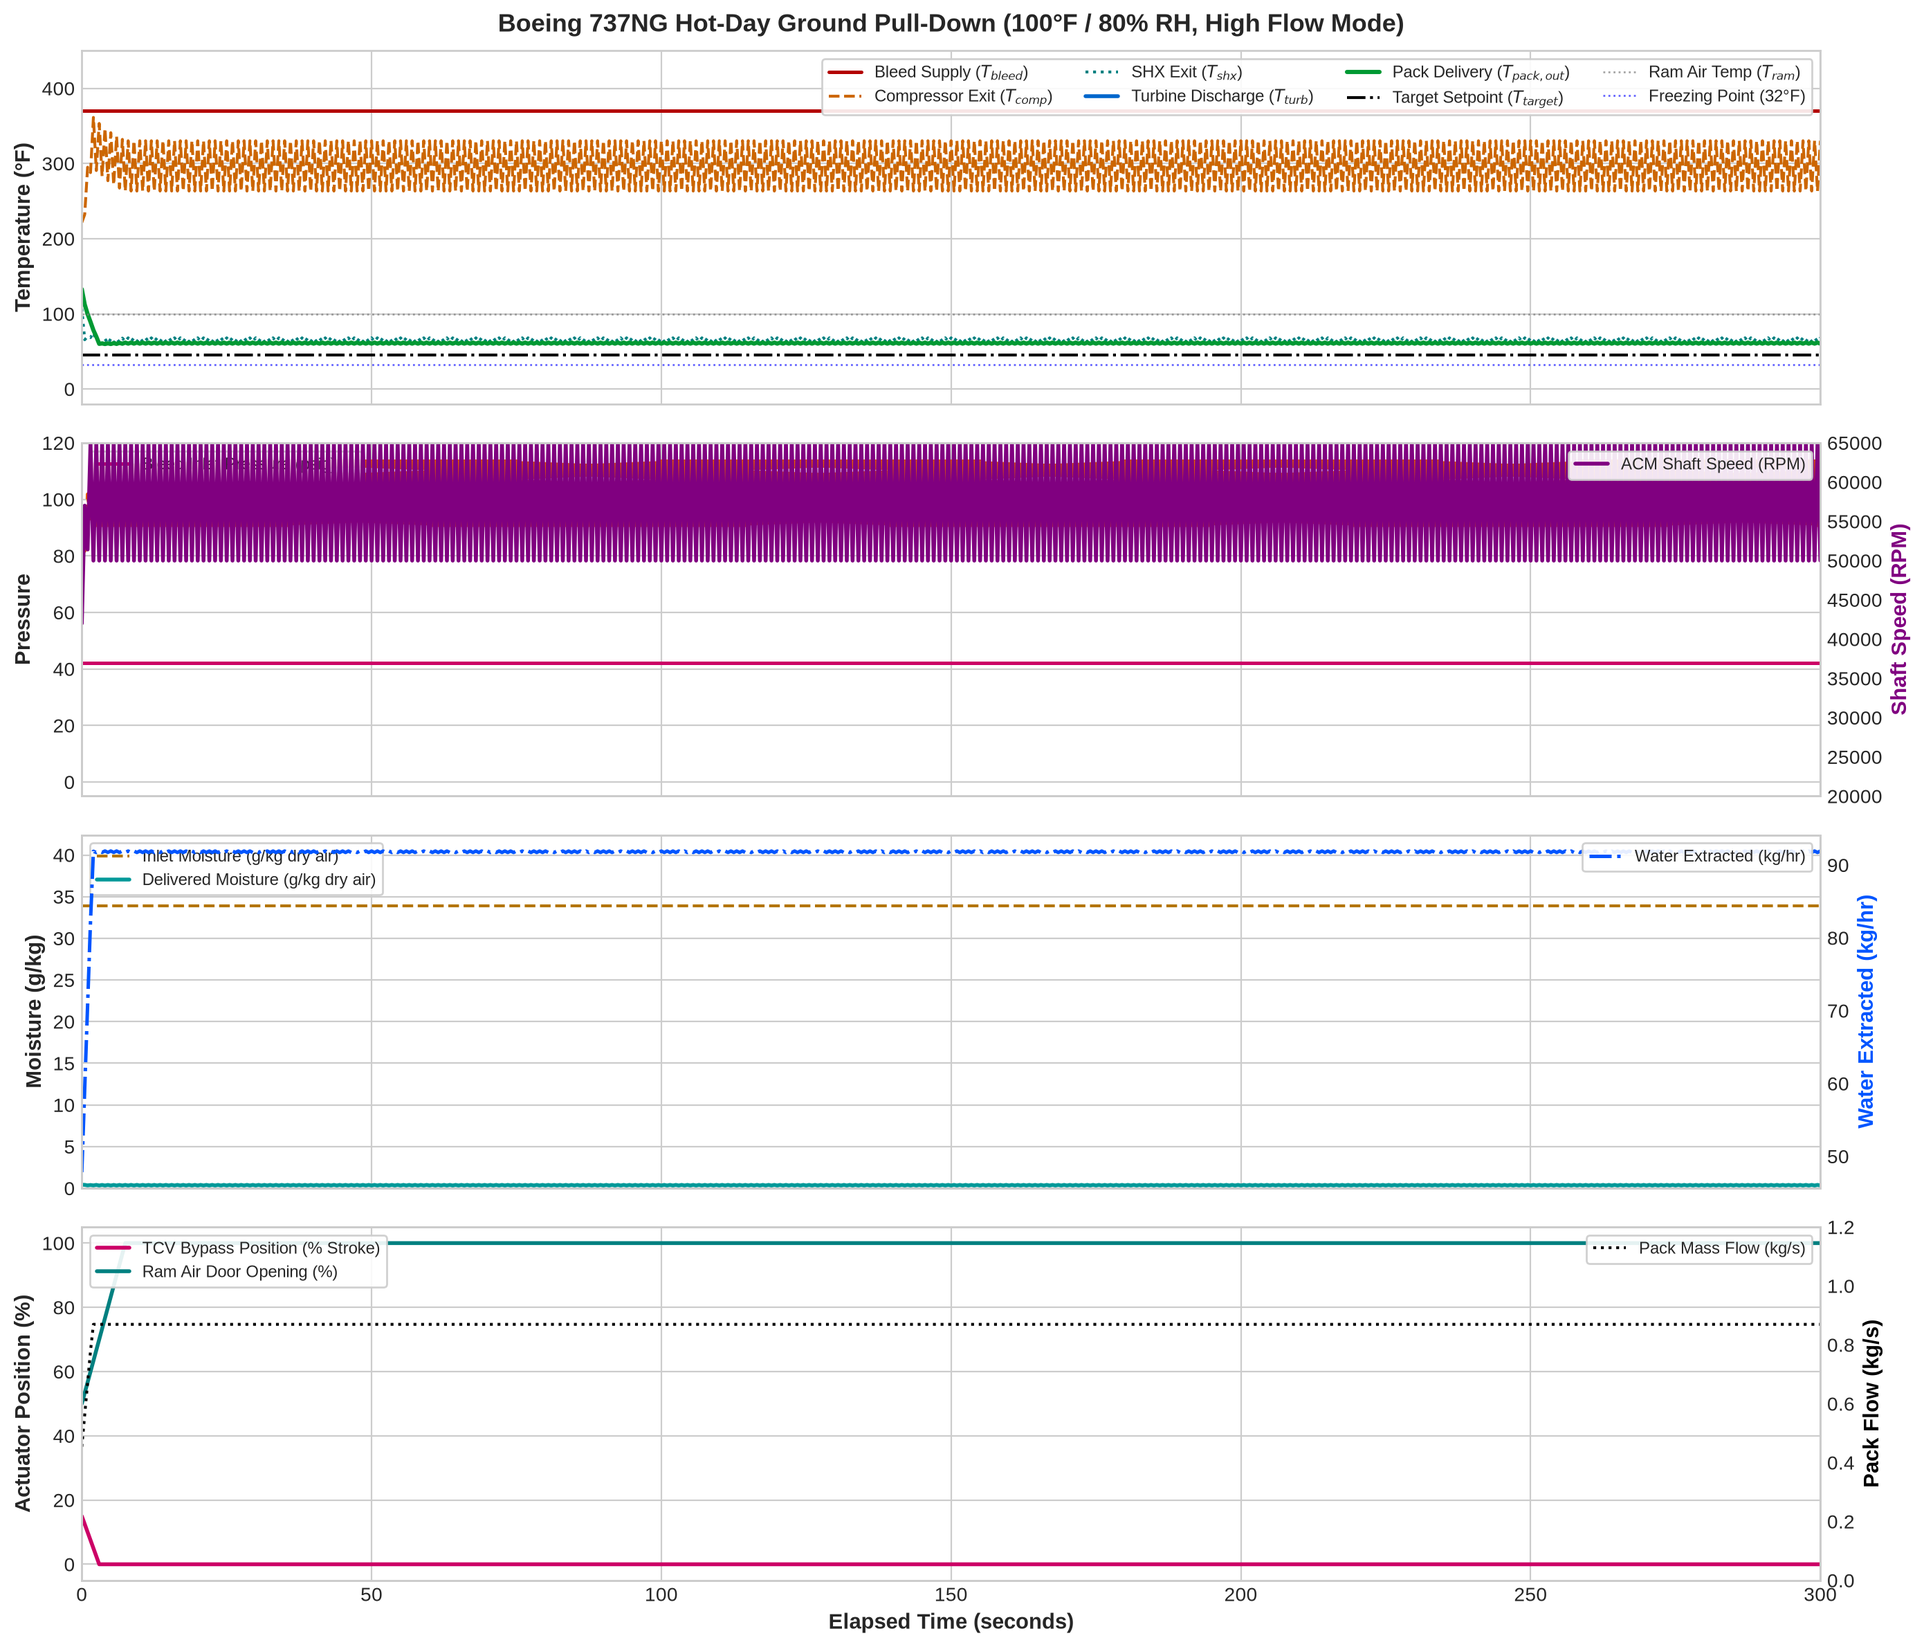
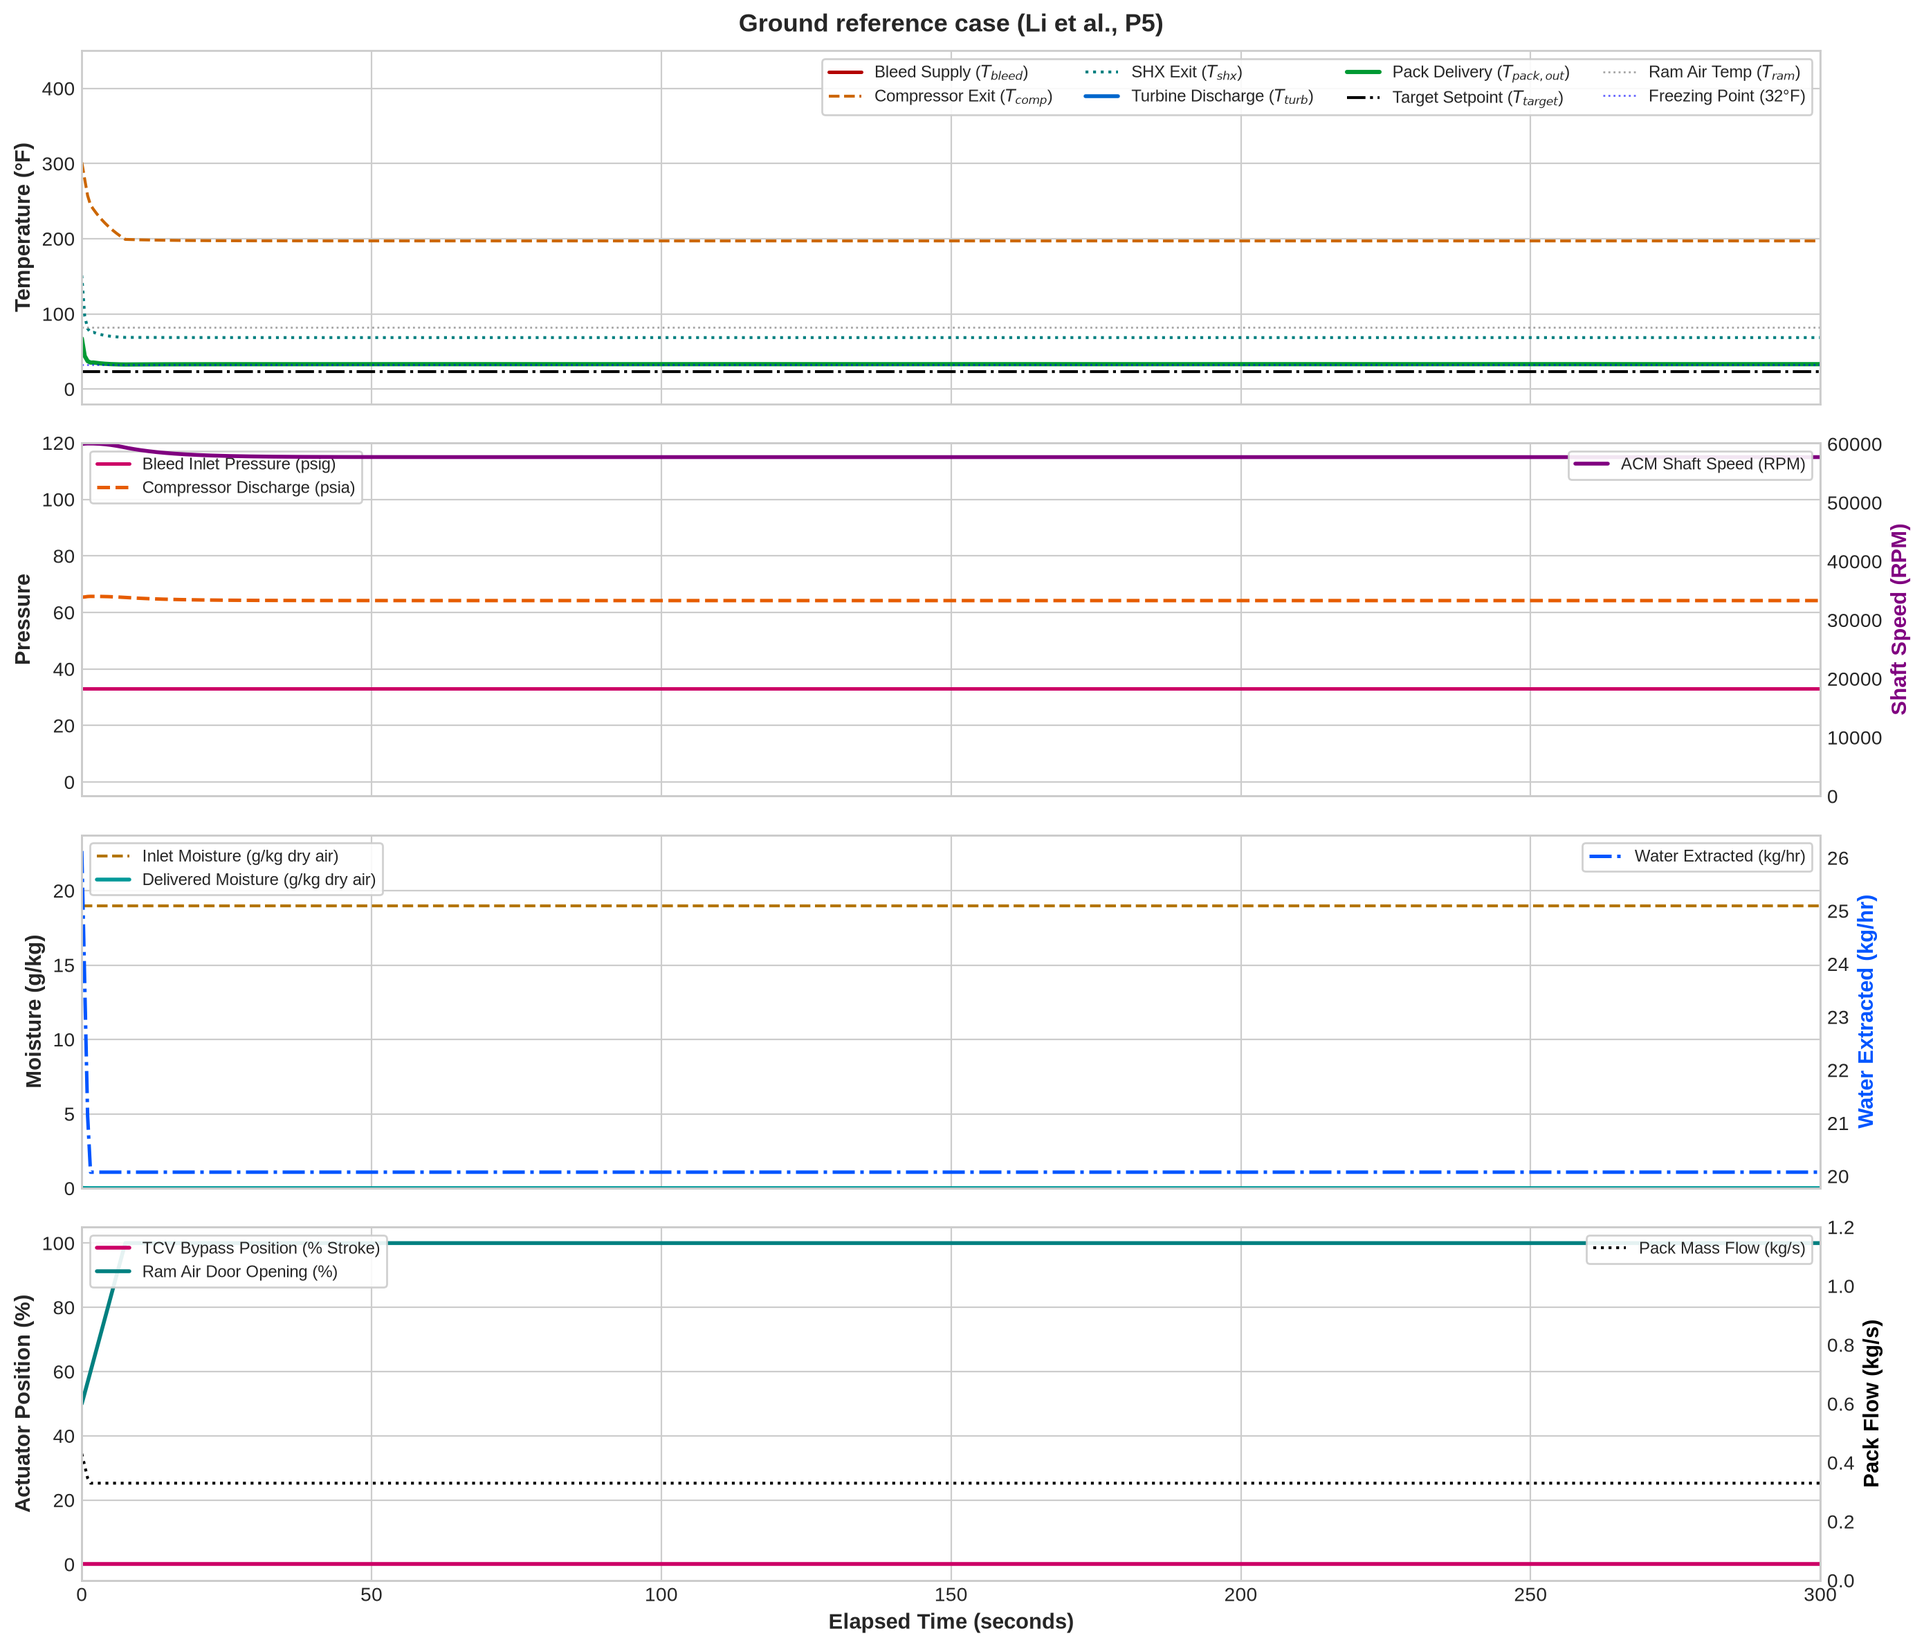
content(projects): align ggBleed and ggPack drafts with the public-sources audit
Reference architecture is 737-800-class from public sources; roadmap marks the audit
complete; validation sections state the real status; full citation lists; hero plots
regenerated from the audited models.

diff --git a/_projects/ggpack.md b/_projects/ggpack.md
@@ -21,30 +21,29 @@ tools:
 <!-- TODO: why this project exists and who it is for. -->
 
 **ggPack** models an airliner air conditioning pack: the system that turns hot bleed air
-into cool, dry air for the cabin. The heart of it is a 3-wheel bootstrap air cycle machine,
-with a compressor, turbine and fan on one shaft. The reference architecture is a
-single-aisle airliner (737NG class). Its inlet conditions come from
+into cool, dry air for the cabin. The heart of it is a three-wheel bootstrap air cycle
+machine, with a compressor, turbine and ram fan on one shaft. It is a 737-800-class
+reference architecture built only from public sources. Its inlet conditions come from
 [ggBleed](/projects/ggbleed/).
 
 ## What It Models
 
-- **Shaft dynamics:** a rotor inertia balance between turbine, compressor, fan and bearing torques.
-- **High-pressure water separation:** reheater, condenser and centrifugal water extractor,
-  with phase-change psychrometrics and ram air water spray.
-- **Pack control:** flow control valve scheduling, temperature control valve bypass, and
-  modulating ram air doors.
+- **Shaft dynamics:** a single rotor inertia balancing turbine, compressor and fan torques,
+  with a published shaft mechanical efficiency.
+- **High-pressure water separation:** primary and secondary heat exchangers, reheater,
+  condenser and water extractor, with psychrometrics and evaporative spray of the extracted
+  water into the ram duct.
+- **Pack control:** flow control valve holding the pack-flow setpoint, temperature control
+  valve bypass, and ram air doors.
 - **ggBleed coupling:** runs directly on transient bleed outputs from ggBleed.
 
 ## Approach
 
-<!-- TODO: expand. -->
-
 As with ggBleed, the pack is built twice: a causal Python model and an acausal
-OpenModelica model.
+OpenModelica model. The OpenModelica cruise experiment runs at a published cruise case;
+it has no controller and models dry air, so it is a structural check, not a validation.
 
 ### Roadmap
-
-<!-- TODO: confirm phases and status before publishing. -->
 
 <!-- markdownlint-disable MD033 MD046 -->
 <div class="roadmap-track">
@@ -57,18 +56,27 @@ OpenModelica model.
 <p class="phase-details">Python and OpenModelica pack models, coupled to ggBleed.</p>
 </div>
 
+<div class="roadmap-phase is-complete">
+<div class="phase-header">
+<span class="phase-badge">Phase 1</span>
+<span class="status-tag" data-status="complete"><span class="status-dot"></span>Complete</span>
+</div>
+<h4 class="phase-title">Public-Sources Audit</h4>
+<p class="phase-details">Every parameter traced to a public source, derived, or labelled as an assumption, enforced by a checker in the test suite.</p>
+</div>
+
 <div class="roadmap-phase is-active">
 <div class="phase-header">
-<span class="phase-badge">Phase 1 &middot; Active Target</span>
+<span class="phase-badge">Phase 2 &middot; Active Target</span>
 <span class="status-tag" data-status="active"><span class="status-dot"></span>Active</span>
 </div>
-<h4 class="phase-title">Public Sourcing &amp; Validation</h4>
-<p class="phase-details">Trace every parameter to a public source and validate against published cases.</p>
+<h4 class="phase-title">Validation</h4>
+<p class="phase-details">Calibrate against the published ground and cruise cases, and add a wet heat-exchanger model for the condenser.</p>
 </div>
 
 <div class="roadmap-phase">
 <div class="phase-header">
-<span class="phase-badge">Phase 2</span>
+<span class="phase-badge">Phase 3</span>
 <span class="status-tag" data-status="planned"><span class="status-dot"></span>Planned</span>
 </div>
 <h4 class="phase-title">Write-Up</h4>
@@ -79,19 +87,52 @@ OpenModelica model.
 
 ## Validation
 
-<!-- TODO: fill from docs/VALIDATION_SOURCES.md once the research pass is done. -->
-First target: reproduce the bootstrap pack baseline from Pérez-Grande &amp; Leo
-(2002), widely reused in later ECS literature.
+A built-in `validate` command compares the model with three published cases: a ground
+reference case and a second ground point from Li et al., and two cruise cases from
+Chowdhury et al. Tolerances are the published mean deviations of an independent model.
+
+Current state, stated plainly: **the pack is not yet calibrated.** Of 19 accuracy checks,
+4 are within tolerance (including shaft speed in both ground cases), the cruise
+controller reaches both published targets, and no physically impossible state occurs.
+Known gaps, such as the condenser's missing wet heat-exchanger model and a water-mass
+leak, are pinned as expected-failure tests so they stay visible.
 
 ## Results
 
-<!-- TODO: key plots and comparisons against the validation cases. -->
+![ggPack ground reference case](/assets/imgs/project/ggpack-pulldown.png)
+
+The published ground reference case run through the Python model: station temperatures,
+pressures and shaft speed, moisture removal, and actuator positions.
+
+<!-- TODO: add validation plots once Phase 2 lands. -->
 
 ## Sources & Disclaimer
 
-This is an independent educational project. It is built only from publicly available
-material, cited below, and contains no proprietary data. It is not affiliated with or
+This is an independent educational project. It is a 737-800-class reference architecture built
+only from public sources: peer-reviewed journal papers and a government incident report. No manufacturer, maintenance, training or other proprietary documents
+were used, and it is not a replica of any manufacturer's hardware. It is not affiliated with or
 endorsed by Boeing, Airbus, or any equipment supplier.
 
-<!-- TODO: citation list from docs/VALIDATION_SOURCES.md. Do not publish until every
-     parameter on this page traces to a source here. -->
+Every model value is cited to one of the sources below, derived from them by a written calculation,
+standard textbook physics, or a labelled generic modelling assumption. A provenance checker runs
+with the test suite and fails the build on any untagged value.
+
+- **P1:** Esperon-Miguez, Jennions, Camacho Escobar, Hanov, "Simulating faults in a Boeing
+  737-200 Environmental Control System using a thermodynamic model", *Int. J. Prognostics and
+  Health Management* 10(2) (2019).
+- **P2:** Jennions, Ali, Esperon-Miguez, Camacho Escobar, "Simulation of an aircraft
+  environmental control system", *Applied Thermal Engineering* 172, 114925 (2020).
+- **P5:** Li, Hu, Sun, Wu, "Dynamic simulation model for three-wheel air-cycle refrigeration
+  systems in civil aircrafts", *Int. J. Refrigeration* 145, 353–365 (2023).
+- **P8:** Jennions, Ali, "Evaluation of Component Level Degradation in the Boeing 737-800 Air
+  Cycle Machine", *J. Thermal Science and Engineering Applications* 15(3), 031014 (2023).
+- **P9:** Chowdhury, Ali, Jennions, "Boeing 737-400 passenger air conditioner control system
+  model for accurate fault simulation", *J. Thermal Science and Engineering Applications*
+  14(9), 091008 (2022).
+- **P18:** Li, Hu, Lei, "Performance simulation and diagnosis of faulty states in air-cycle
+  refrigeration systems in civil aircrafts", *Int. J. Refrigeration* 156, 232–242 (2023).
+- **P19:** Li, Hu, Wang, Shen, "Temperature control method optimization for dual-pack air
+  cycle refrigeration system in civil aircraft based on dynamic system modelling",
+  *Int. J. Refrigeration* 191, 107067 (2026).
+- **B3:** Air Accident Investigation Bureau Malaysia, *Aircraft Serious Incident Final Report
+  SI 04/24, Boeing 737-800 9M-LCM* (2025).

diff --git a/_projects/ggbleed.md b/_projects/ggbleed.md
@@ -22,30 +22,30 @@ tools:
 
 **ggBleed** models how an airliner's engines supply bleed air to the aircraft: hot,
 high-pressure air taken from the engine compressor, regulated, and cooled before it goes
-to air conditioning, anti-ice and pressurization. The reference architecture is a
-single-aisle airliner (737NG class). It feeds directly into [ggPack](/projects/ggpack/),
-the air conditioning pack model.
+to air conditioning, anti-ice and pressurization. It is a 737-800-class reference
+architecture built only from public sources. It feeds directly into
+[ggPack](/projects/ggpack/), the air conditioning pack model.
 
 ## What It Models
 
-- **Compressible gas dynamics:** isentropic nozzle relations, choked and unchoked orifice
-  flow, and pressure drop.
-- **Precooler heat transfer:** ε-NTU crossflow heat exchanger with transient core thermal mass.
-- **Pneumatic valves:** pressure-regulating and high-pressure valves with diaphragm force
-  balances, springs, travel limits and stiction.
-- **Flight envelope:** takeoff, climb, cruise and idle descent, plus transient disturbances
-  such as an anti-ice step demand.
+- **Compressible gas dynamics:** ideal-gas properties, isentropic and choked/unchoked
+  orifice flow, and the standard atmosphere.
+- **Precooler:** ε-NTU crossflow heat exchanger with a lumped core thermal mass.
+- **Valves and control:** high-stage valve, a pressure-regulating shutoff valve (PRSOV)
+  holding a gauge setpoint, and a fan air valve driven by an outlet thermostat, with sensor
+  and valve lags, a temperature limit and an overheat trip.
+- **Flight mission:** ground, takeoff, climb, cruise with a wing anti-ice step, idle
+  descent and approach, rebuilt from published engine port states, a published cruise
+  point and the standard atmosphere.
 
 ## Approach
 
-<!-- TODO: expand. -->
-
-The same system is built twice: a causal Python ODE model and an acausal OpenModelica
-model, so the two paradigms can be compared side by side.
+The same system is built twice: a causal Python model and an acausal OpenModelica model,
+so the two paradigms can be compared side by side. The OpenModelica cruise experiment
+closes the plant with boundary sources and sinks and runs at the same cited cruise point
+as the Python mission.
 
 ### Roadmap
-
-<!-- TODO: confirm phases and status before publishing. -->
 
 <!-- markdownlint-disable MD033 MD046 -->
 <div class="roadmap-track">
@@ -58,18 +58,27 @@ model, so the two paradigms can be compared side by side.
 <p class="phase-details">Python and OpenModelica bleed models with a pytest suite.</p>
 </div>
 
+<div class="roadmap-phase is-complete">
+<div class="phase-header">
+<span class="phase-badge">Phase 1</span>
+<span class="status-tag" data-status="complete"><span class="status-dot"></span>Complete</span>
+</div>
+<h4 class="phase-title">Public-Sources Audit</h4>
+<p class="phase-details">Every parameter traced to a public source, derived, or labelled as an assumption, enforced by a checker in the test suite.</p>
+</div>
+
 <div class="roadmap-phase is-active">
 <div class="phase-header">
-<span class="phase-badge">Phase 1 &middot; Active Target</span>
+<span class="phase-badge">Phase 2 &middot; Active Target</span>
 <span class="status-tag" data-status="active"><span class="status-dot"></span>Active</span>
 </div>
-<h4 class="phase-title">Public Sourcing &amp; Validation</h4>
-<p class="phase-details">Trace every parameter to a public source and validate against published cases.</p>
+<h4 class="phase-title">Validation</h4>
+<p class="phase-details">Compare against published measured and simulated cases from the research library.</p>
 </div>
 
 <div class="roadmap-phase">
 <div class="phase-header">
-<span class="phase-badge">Phase 2</span>
+<span class="phase-badge">Phase 3</span>
 <span class="status-tag" data-status="planned"><span class="status-dot"></span>Planned</span>
 </div>
 <h4 class="phase-title">Write-Up</h4>
@@ -80,19 +89,51 @@ model, so the two paradigms can be compared side by side.
 
 ## Validation
 
-<!-- TODO: fill from docs/VALIDATION_SOURCES.md once the research pass is done. -->
-Candidate cases include published engine-deck bleed extraction data and
-precooler heat exchanger test data.
+So far the model is checked against published *limits*, not fitted to measured data:
+
+- Through the whole mission, the precooler outlet stays inside the control band published
+  in the AAIB Malaysia incident report, the intermediate stage supplies cruise, the high
+  stage takes over in descent, and nothing trips.
+- The PRSOV regulates to the published setpoint, and the temperature limit and trip act
+  at the published values.
+- The precooler's conductance is solved so two published flight-test cases land in that band.
+
+The OpenModelica cruise experiment settles on the same setpoint and band. Measured-data
+validation cases are catalogued in the research library and are the next phase.
 
 ## Results
 
-<!-- TODO: key plots and comparisons against the validation cases. -->
+![ggBleed mission profile](/assets/imgs/project/ggbleed-mission.png)
+
+Mission profile from the Python model: temperatures, pressures, valve positions and flows
+from ground idle to landing.
+
+<!-- TODO: add validation plots once Phase 2 lands. -->
 
 ## Sources & Disclaimer
 
-This is an independent educational project. It is built only from publicly available
-material, cited below, and contains no proprietary data. It is not affiliated with or
+This is an independent educational project. It is a 737-800-class reference architecture built
+only from public sources: peer-reviewed papers, a doctoral dissertation, an FAA technical report and
+a government incident report. No manufacturer, maintenance, training or other proprietary documents
+were used, and it is not a replica of any manufacturer's hardware. It is not affiliated with or
 endorsed by Boeing, Airbus, or any equipment supplier.
 
-<!-- TODO: citation list from docs/VALIDATION_SOURCES.md. Do not publish until every
-     parameter on this page traces to a source here. -->
+Every model value is cited to one of the sources below, derived from them by a written calculation,
+standard textbook physics, or a labelled generic modelling assumption. A provenance checker runs
+with the test suite and fails the build on any untagged value.
+
+- **B3:** Air Accident Investigation Bureau Malaysia, *Aircraft Serious Incident Final Report
+  SI 04/24, Boeing 737-800 9M-LCM* (2025).
+- **B10:** Shang, *Fault detection and isolation in an aircraft engine bleed air system*,
+  PhD dissertation, Ryerson University (2011).
+- **B13:** Peng, "Research and Verification on the Solution of Bleed Air Temperature Deviation
+  of Civil Aircraft Pneumatic System", *J. Phys.: Conf. Ser.* 2410, 012009 (2022).
+- **B16:** Dai, Cui, "Thermal dynamic simulation study of the aircraft ECS laboratory air
+  source", *J. Phys.: Conf. Ser.* 2992, 012049 (2025).
+- **B18:** Shi, Dong, Liu, Luo, "Study on construction and identification of dynamic model of
+  precooler in aviation bleed air system", *J. Northwestern Polytechnical University* 42(6)
+  (2024).
+- **R1:** Jones, *Aircraft Air Quality and Bleed Air Contamination Detection*, FAA report
+  DOT/FAA/TC-21/45 (2022).
+- **P2:** Jennions, Ali, Esperon-Miguez, Camacho Escobar, "Simulation of an aircraft
+  environmental control system", *Applied Thermal Engineering* 172, 114925 (2020).
